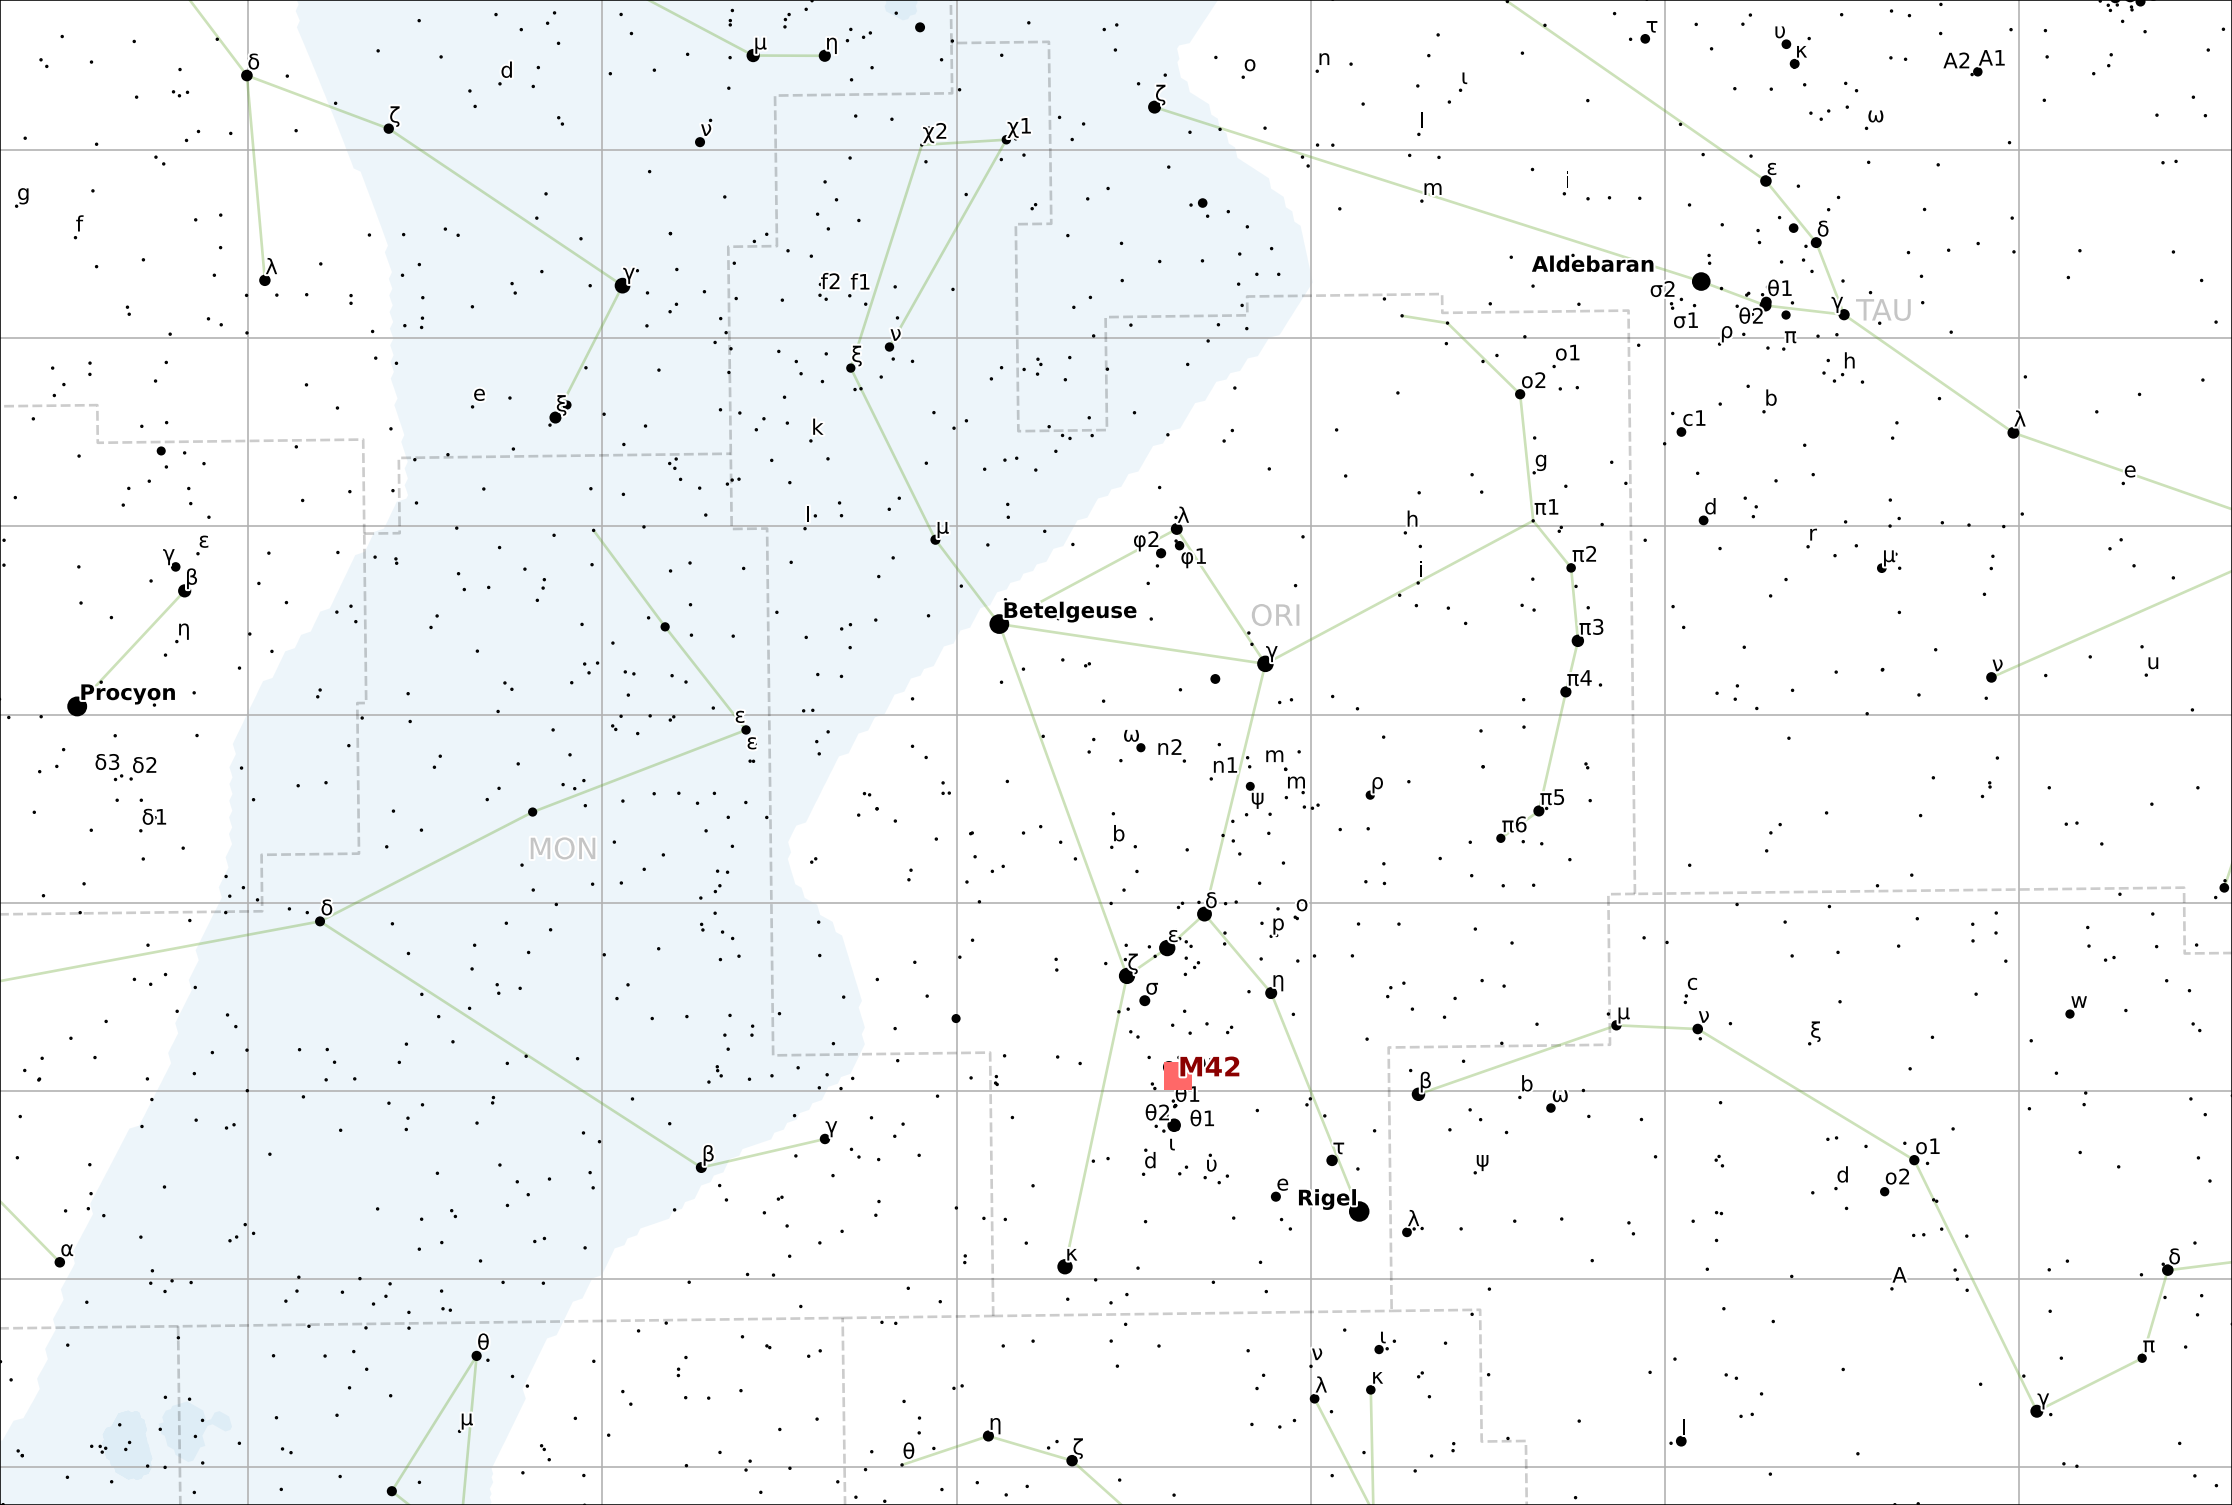
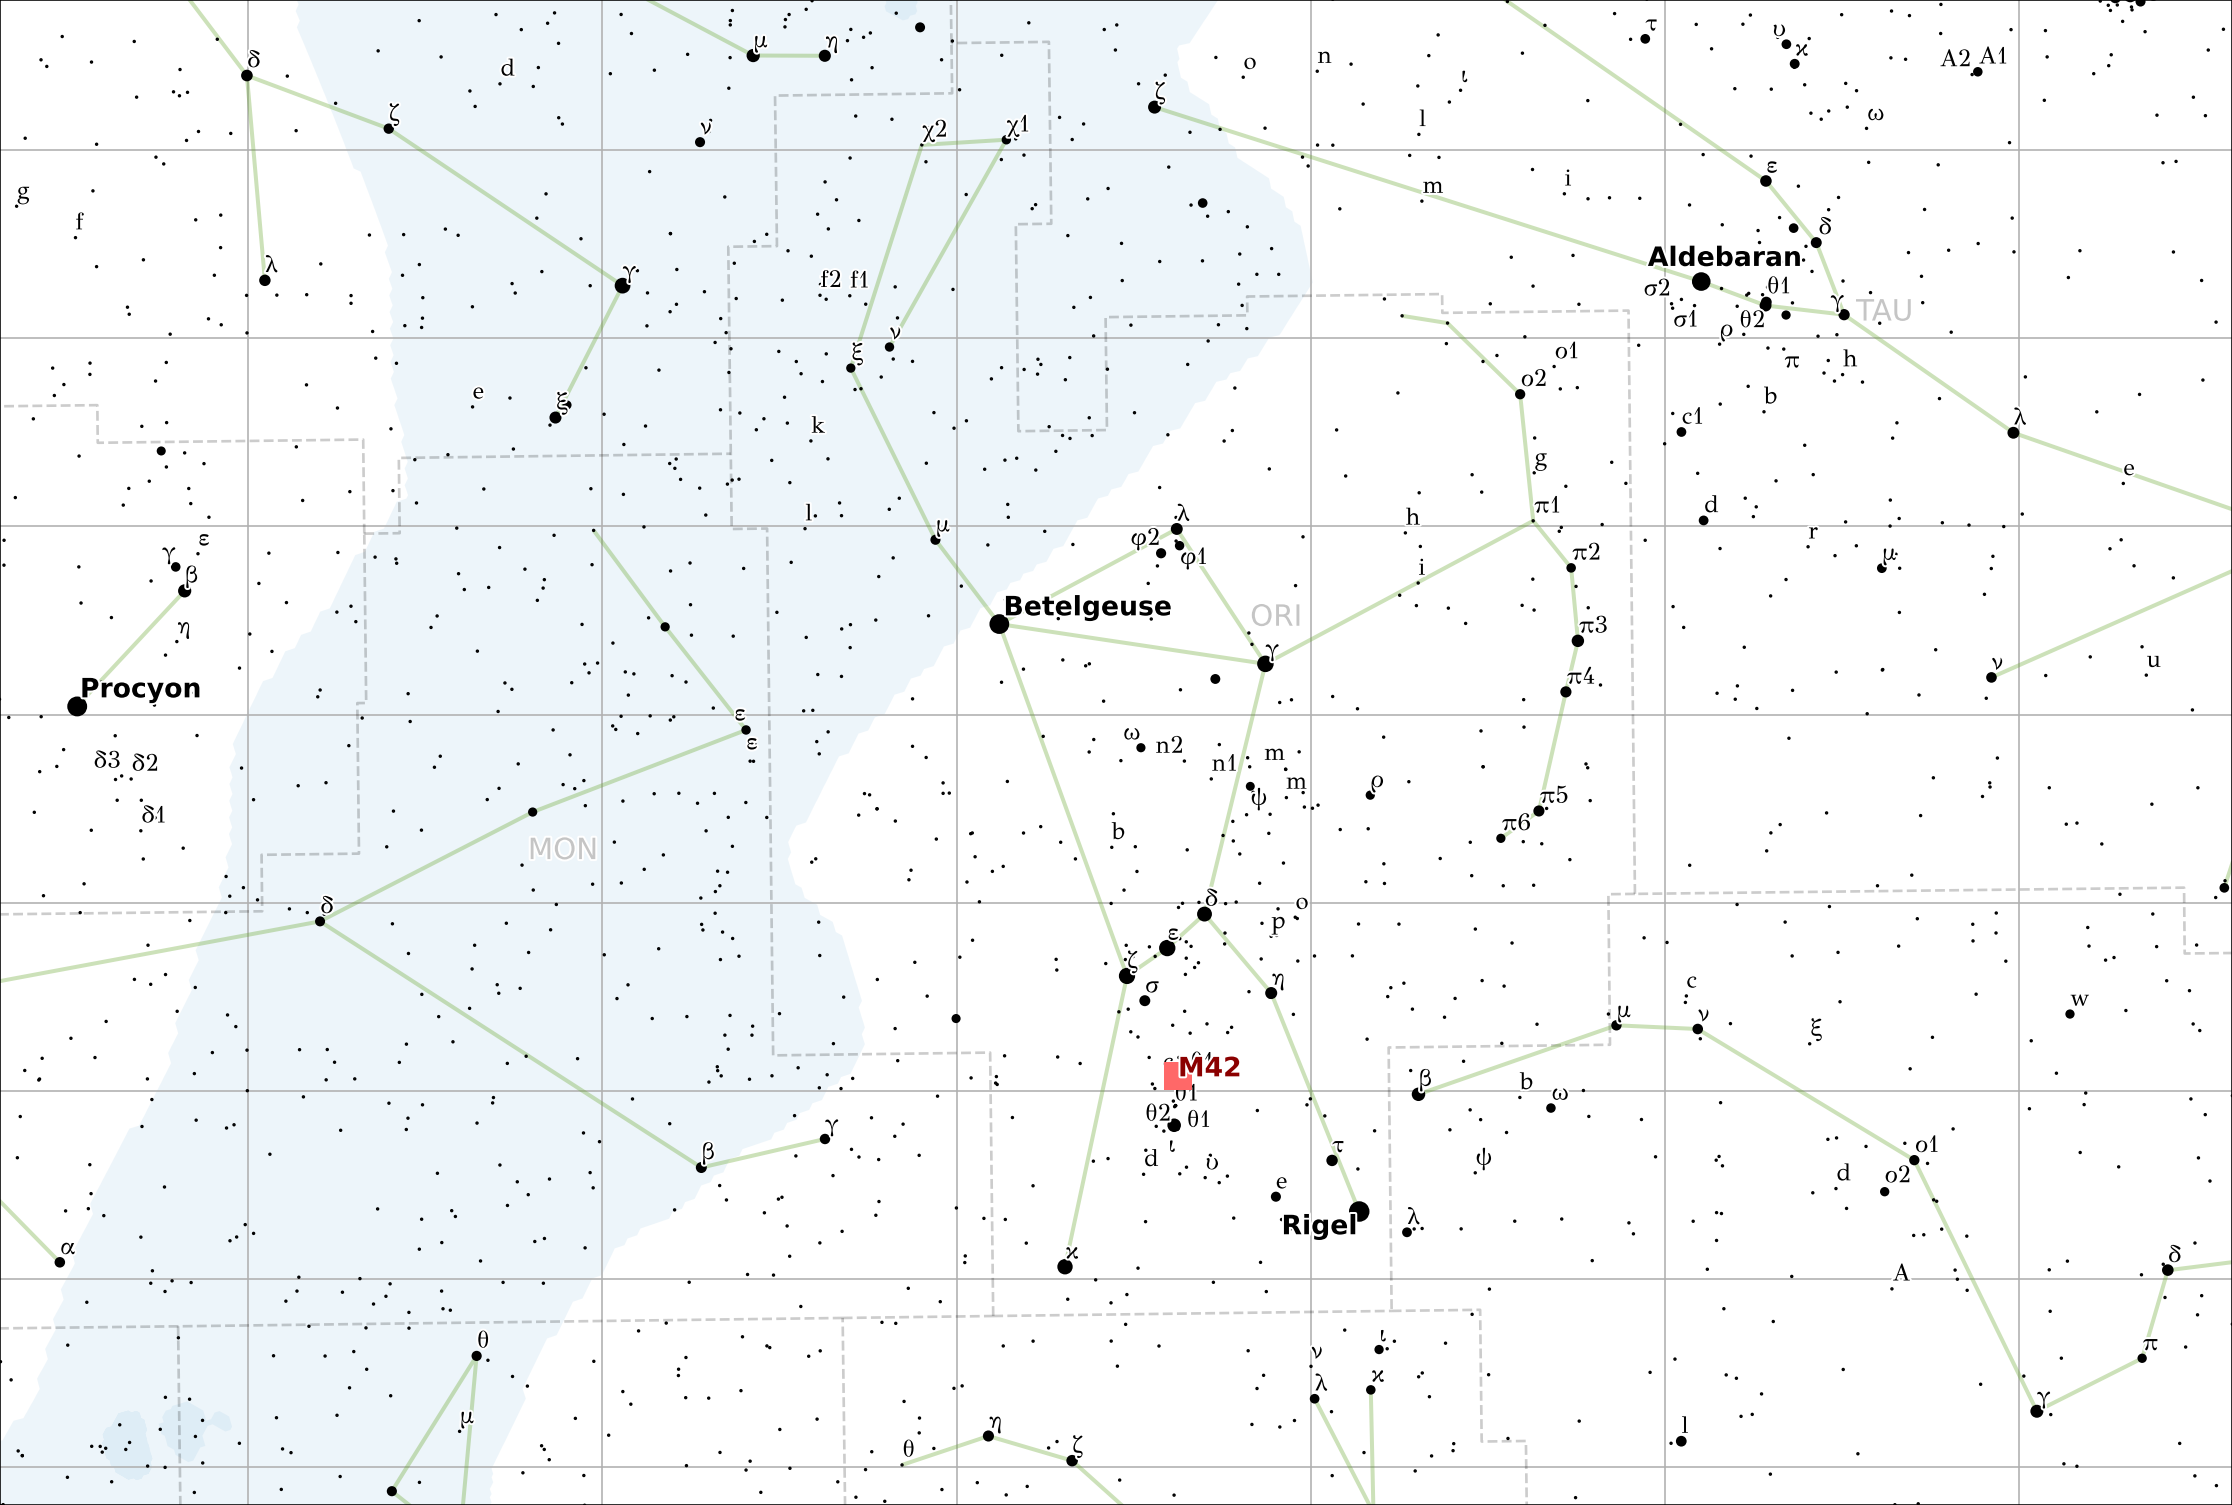
font names

diff --git a/src/starplot/styles.py b/src/starplot/styles.py
@@ -104,6 +104,7 @@ class LabelStyle(BaseModel):
     font_color: Color = Color("#000")
     font_alpha: float = 1
     font_style: FontStyleEnum = FontStyleEnum.NORMAL
+    font_name: str = None
     zorder: int = 1
     visible: bool = True
 
@@ -112,6 +113,7 @@ class LabelStyle(BaseModel):
             color=self.font_color.as_hex(),
             fontsize=self.font_size * size_multiplier * FONT_SCALE,
             fontstyle=self.font_style,
+            fontname=self.font_name,
             weight=self.font_weight,
             alpha=self.font_alpha,
             zorder=self.zorder,
